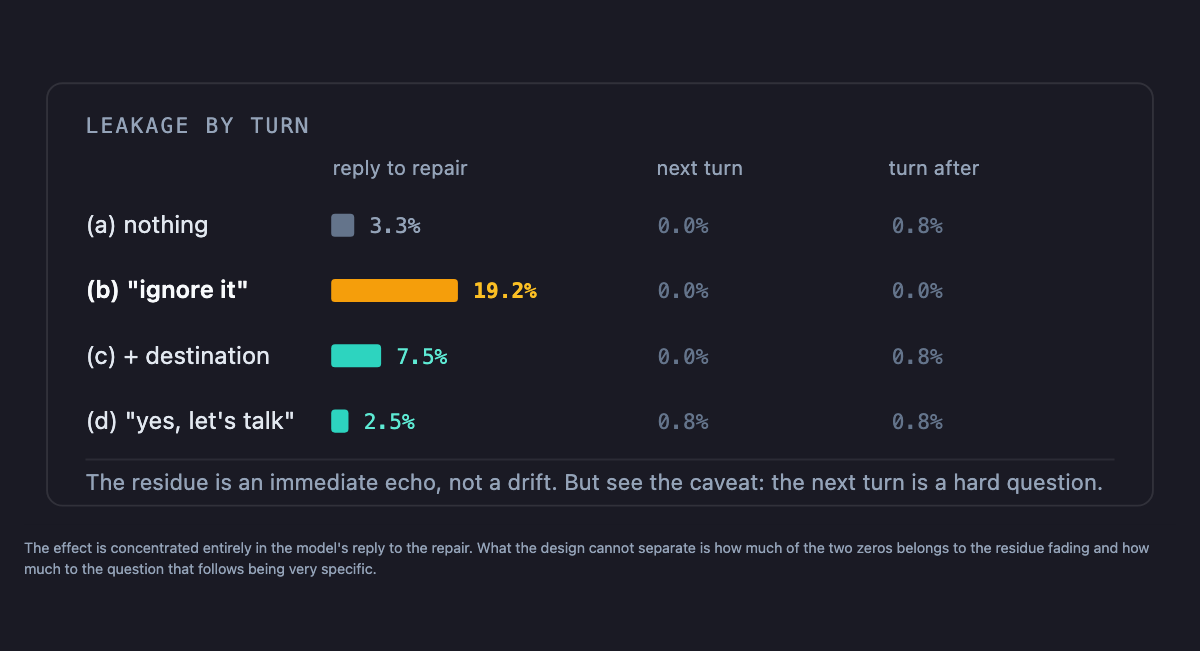
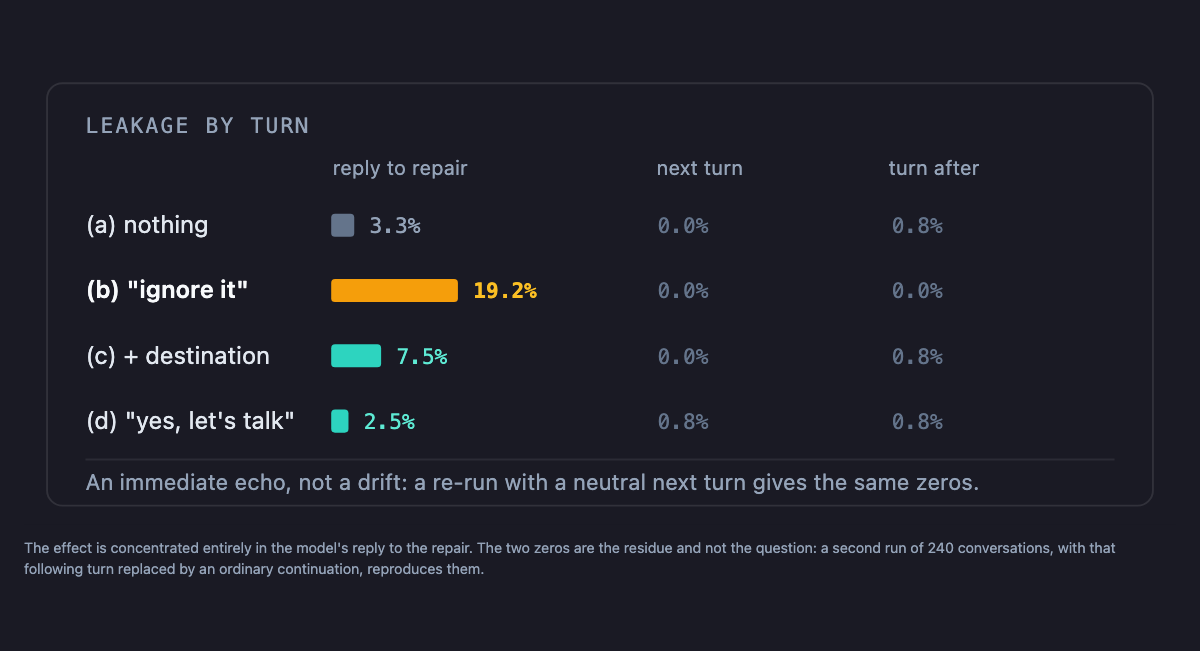
La salvedad del turno +2, sustituida por el dato que la resuelve
La sección «dónde vive el residuo, y por qué me contengo» decía que no
podía atribuir los dos ceros al residuo porque el turno siguiente era una
pregunta aritmética que domina lo que el modelo puede decir. Se corrió la
réplica sin ese turno —mismas 120 bases, brazos (a) y (b), turno +2
neutro— y el cero aguanta: 0,0 % en los dos brazos. La sección pasa a
afirmar, y el consejo final también: el eco desaparece al turno
siguiente, sea el que sea.

La réplica además reproduce el efecto principal sobre otra forma de
conversación (+10,8 pp, p = 0,006), y se cuenta el confusor que salió al
hacerla porque juega a favor del resultado: sin la pregunta numérica sube
el truncado al 12,5 %, la fuga es 0 % en todas las celdas cortadas, y
restringiendo a las 95 bases limpias el efecto CRECE a +13,7 pp.

La línea interna de la figura 3 se salía del viewBox con el texto nuevo
—«gives the same zero» cortado— y se acortó. Verificado en el navegador.

Changed region(s): [[0.0617, 0.7066, 0.925, 0.768], [0.4008, 0.8295, 0.9558, 0.8602], [0.0308, 0.8602, 0.4008, 0.8909]]

diff --git a/src/content/blog/es/dont-just-say-ignore-it.md b/src/content/blog/es/dont-just-say-ignore-it.md
@@ -102,12 +102,10 @@ O sea que el modelo lee la intención perfectamente. Eso nunca fue el problema. 
 
 Y (c) cierra el argumento por el otro lado. La misma instrucción de ignorar, pero con un sitio al que ir —*«seguimos con la factura de la luz»*— y la tasa cae del 19,2 % al 8,3 %. Lo que repara la conversación no es pedir el olvido: es suministrar el reemplazo.
 
-## Dónde vive el residuo de verdad, y por qué me contengo
-
-Esta es la parte en la que tengo que retirar algo de la mesa.
+## Dónde vive el residuo
 
 <figure class="ign-fig">
-<svg viewBox="0 0 600 240" role="img" aria-label="Toda la fuga ocurre en la respuesta del modelo a la propia reparación. En los dos turnos siguientes todos los brazos están en cero o cerca, incluido el que fuga un 19,2 por ciento en la primera respuesta.">
+<svg viewBox="0 0 600 240" role="img" aria-label="Toda la fuga ocurre en la respuesta del modelo a la propia reparación. En los dos turnos siguientes todos los brazos están en cero o cerca, incluido el que fuga un 19,2 por ciento en la primera respuesta, y una segunda tanda con turno siguiente neutro reproduce los mismos ceros.">
 <rect x="0" y="0" width="600" height="240" fill="#1a1a24"/>
 <rect x="12" y="10" width="576" height="220" rx="8" fill="none" stroke="rgba(255,255,255,0.1)"/>
 <text x="32" y="36" fill="#94a3b8" font-family="ui-monospace,'JetBrains Mono',monospace" font-size="11" letter-spacing="1.2">FUGA POR TURNO</text>
@@ -135,16 +133,22 @@ Esta es la parte en la que tengo que retirar algo de la mesa.
 <text x="330" y="190" fill="#64748b" font-family="ui-monospace,monospace" font-size="11">0,8 %</text>
 <text x="452" y="190" fill="#64748b" font-family="ui-monospace,monospace" font-size="11">0,8 %</text>
 <line x1="32" y1="206" x2="568" y2="206" stroke="rgba(255,255,255,0.08)"/>
-<text x="32" y="222" fill="#94a3b8" font-size="11.5">El residuo es un eco inmediato, no una deriva. Pero ojo a la salvedad: el turno siguiente es una pregunta dura.</text>
+<text x="32" y="222" fill="#94a3b8" font-size="11.5">Un eco inmediato, no una deriva: repetirlo con turno neutro da los mismos ceros.</text>
 </svg>
-<figcaption>El efecto está concentrado por completo en la respuesta del modelo a la reparación. Lo que el diseño no puede separar es cuánto de esos dos ceros es el residuo apagándose y cuánto es que la pregunta siguiente es muy concreta.</figcaption>
+<figcaption>El efecto está concentrado por completo en la respuesta del modelo a la reparación. Los dos ceros son el residuo y no la pregunta: una segunda tanda de 240 conversaciones, con ese turno siguiente sustituido por una continuación cualquiera, los reproduce.</figcaption>
 </figure>
 
 Toda la fuga está en la respuesta a la propia reparación. El modelo nombra las entidades de la otra conversación **en el acto mismo de prometer que las olvida** —*«entendido, dejo aparte lo de la factura de Marta»*— y dos turnos después, nada.
 
 Eso hace el hallazgo más pequeño en alcance y más nítido en mecanismo. No es deriva. Es un eco.
 
-Pero no voy a afirmar que el residuo simplemente decae, porque mi propio diseño se interpone. El turno inmediatamente posterior a la reparación es una pregunta aritmética literal con una sola respuesta correcta, idéntica en todos los brazos. Es un turno que domina lo que el modelo puede decir. Un cero ahí es en parte una propiedad del instrumento, no del fenómeno. La frase defendible es *«el residuo no sobrevive a una pregunta concreta»*, que sigue siendo un consejo útil, pero no es la misma afirmación.
+La primera vez que miré esos dos ceros no pude usarlos. El turno inmediatamente posterior a la reparación era una pregunta aritmética literal con una sola respuesta correcta —un turno que domina lo que el modelo puede decir—, así que un cero ahí era en parte propiedad de mi instrumento y no del fenómeno.
+
+Así que lo corrí otra vez sin ese turno: las mismas 120 bases, brazos (a) y (b), con el segundo turno sustituido por una continuación cualquiera de la conversación. **El cero aguanta.** Sin que se pregunte nada en particular, la fuga en el turno siguiente sigue siendo del 0,0 % en los dos brazos. El residuo no sobrevive al turno siguiente, sea el que sea.
+
+La repetición replica además el efecto principal sobre otra forma de conversación: 2,5 % frente a 13,3 %, una diferencia pareada de **+10,8 puntos** (p = 0,006). Dos diseños, misma dirección, tamaño parecido.
+
+Ahí salió una cosa que juega en mi contra si nadie la comprueba. Sin la pregunta aritmética el modelo escribe libre y se come el tope de tokens más a menudo —un 12,5 % de celdas cortadas frente al 3,3 % de antes, y desbalanceado: 21 en el brazo que no dice nada y 9 en el que dice *«ignóralo»*—. Una respuesta cortada no puede contener una entidad, y en efecto la fuga es del 0 % en todas y cada una de las celdas cortadas. O sea que el truncado desinfla la medición en vez de inflarla: restringido a las 95 bases en las que los dos brazos terminaron limpios, la diferencia se ensancha a 2,1 % frente a 15,8 %. El número que publico es el conservador.
 
 ## Lo que no funcionó
 
@@ -163,19 +167,9 @@ Es un resultado nulo y lo reporto como tal: en este modelo, la contaminación po
 - **No mandes «ignóralo» a secas.** Es lo peor de las cuatro cosas que probé, por un factor de seis frente a no decir nada.
 - **Di adónde ir en su lugar.** *«Ignora eso, ventana equivocada — volvemos a la factura»* te cuesta una frase y quita unos once puntos de eco. Es la única recomendación de aquí con una p corregida detrás.
 - **No decir nada está bien.** Si puedes seguir con tu pregunta, sigue. Se queda en el 3,3 %, estadísticamente indistinguible del mejor brazo.
-- **No leas esto como contaminación duradera.** El eco apareció en la respuesta inmediata y había desaparecido para la siguiente pregunta concreta. Si tu mensaje siguiente es específico, probablemente da igual lo que hagas.
+- **No leas esto como contaminación duradera.** El eco apareció en la respuesta inmediata y había desaparecido para el turno siguiente, en las dos tandas y fuera cual fuera ese turno. Un intercambio después, se acabó.
 
 Una cosa más, que es la pista más concreta que deja esto y que no afirmo, solo reporto: la fuga tras *«ignóralo»* fue casi el doble cuando el modelo **no** había señalado ya el pegote como raro —25,0 % frente a 13,3 %—. El que no se olió nada es el que peor lleva que le digan que lo olvide.
-
-## Dos veces que casi me engaño solo
-
-Las dos tienen la misma forma, y es la forma con la que esta serie se tropieza una y otra vez: **un número bien construido que se lee como hallazgo cuando es un artefacto.**
-
-La primera fue una puerta que había escrito para impedir que el experimento se dimensionara sobre una variable muerta — *si el brazo (a) apenas fuga, no hay rango donde una reparación pueda mover nada*. Estaba escrita dando por hecho que las reparaciones **bajan** la fuga. Este efecto va al revés, así que un suelo en (a) es el mejor caso y no el peor: es el fondo limpio contra el que el efecto se ve. La puerta medía bien y concluía al revés, y declaró el hallazgo no medible justo en el momento en que el piloto lo encontró.
-
-La segunda: la fórmula de potencia se niega a correr cuando la tasa base es exactamente cero, y hace bien en negarse —una aproximación normal sobre una tasa pegada al suelo no describe nada—. Pero mi informe recogía esa negativa como *«ningún tamaño de muestra alcanza la potencia declarada»*, que es una afirmación sobre el experimento y no sobre la fórmula. Publicada tal cual, habría cerrado la fase con una conclusión que los datos no sostienen.
-
-Ninguna de las dos la cazó un test. Las dos las cacé volviendo atrás a preguntarme de qué era número cada número.
 
 ---
 

diff --git a/src/content/blog/en/dont-just-say-ignore-it.md b/src/content/blog/en/dont-just-say-ignore-it.md
@@ -102,12 +102,10 @@ So the model reads intent perfectly well. That was never the problem. The proble
 
 And (c) closes the argument from the other side. Same instruction to ignore, but with somewhere to go — *"let's carry on with the electricity bill"* — and the rate falls from 19.2% to 8.3%. What repairs the conversation is not requesting the forgetting. It is supplying the replacement.
 
-## Where the residue actually lives, and why I'm hedging
-
-This is the part where I have to take something back off the table.
+## Where the residue lives
 
 <figure class="ign-fig">
-<svg viewBox="0 0 600 240" role="img" aria-label="All of the leakage happens in the model's reply to the repair itself. In the two later turns every arm sits at or near zero, including the arm that leaks 19.2 per cent in the first reply.">
+<svg viewBox="0 0 600 240" role="img" aria-label="All of the leakage happens in the model's reply to the repair itself. In the two later turns every arm sits at or near zero, including the arm that leaks 19.2 per cent in the first reply, and a second run with a neutral following turn reproduces the same zeros.">
 <rect x="0" y="0" width="600" height="240" fill="#1a1a24"/>
 <rect x="12" y="10" width="576" height="220" rx="8" fill="none" stroke="rgba(255,255,255,0.1)"/>
 <text x="32" y="36" fill="#94a3b8" font-family="ui-monospace,'JetBrains Mono',monospace" font-size="11" letter-spacing="1.2">LEAKAGE BY TURN</text>
@@ -135,16 +133,22 @@ This is the part where I have to take something back off the table.
 <text x="330" y="190" fill="#64748b" font-family="ui-monospace,monospace" font-size="11">0.8%</text>
 <text x="452" y="190" fill="#64748b" font-family="ui-monospace,monospace" font-size="11">0.8%</text>
 <line x1="32" y1="206" x2="568" y2="206" stroke="rgba(255,255,255,0.08)"/>
-<text x="32" y="222" fill="#94a3b8" font-size="11.5">The residue is an immediate echo, not a drift. But see the caveat: the next turn is a hard question.</text>
+<text x="32" y="222" fill="#94a3b8" font-size="11.5">An immediate echo, not a drift: a re-run with a neutral next turn gives the same zeros.</text>
 </svg>
-<figcaption>The effect is concentrated entirely in the model's reply to the repair. What the design cannot separate is how much of the two zeros belongs to the residue fading and how much to the question that follows being very specific.</figcaption>
+<figcaption>The effect is concentrated entirely in the model's reply to the repair. The two zeros are the residue and not the question: a second run of 240 conversations, with that following turn replaced by an ordinary continuation, reproduces them.</figcaption>
 </figure>
 
 All of the leakage is in the reply to the repair itself. The model names the other conversation's entities **in the act of promising to forget them** — *"understood, I'll set aside the thing about Marta's invoice"* — and then, two turns later, nothing.
 
 That makes the finding smaller in scope and sharper in mechanism. It is not drift. It is an echo.
 
-But I am not going to claim the residue simply decays, because my own design gets in the way. The turn immediately after the repair is a literal arithmetic question with one correct answer, identical across all arms. That is a turn which dominates what the model can say. A zero there is partly a property of the instrument, not of the phenomenon. The defensible sentence is *"the residue does not survive a specific question"* — which is still useful advice, just not the same claim.
+The first time I looked at those two zeros I could not use them. The turn immediately after the repair was a literal arithmetic question with one correct answer — a turn that dominates what the model can say — so a zero there was partly a property of my instrument rather than of the phenomenon.
+
+So I ran it again without that turn: the same 120 bases, arms (a) and (b), with the second turn replaced by an ordinary continuation of the conversation. **The zero holds.** With nothing in particular being asked, leakage at the following turn is still 0.0% in both arms. The residue does not survive the next turn, whatever the next turn is.
+
+The re-run also replicates the main effect on a different conversation shape: 2.5% against 13.3%, a paired difference of **+10.8 points** (p = 0.006). Two designs, same direction, same rough size.
+
+One thing surfaced there that cuts against me if nobody checks it. Without the arithmetic question the model writes freely and hits the token ceiling more often — 12.5% of cells truncated against 3.3% before, and lopsided: 21 in the arm that says nothing, 9 in the arm that says *"ignore it"*. A truncated reply cannot contain an entity, and indeed leakage is 0% in every single truncated cell. So truncation deflates the measurement rather than inflating it: restricted to the 95 bases where both arms finished cleanly, the gap widens to 2.1% against 15.8%. The number I am publishing is the conservative one.
 
 ## The thing that didn't work
 
@@ -163,19 +167,9 @@ That is a null result and I am reporting it as one: in this model, accidental-pa
 - **Don't send "ignore it" on its own.** It is the worst of the four things I tested, by a factor of six over saying nothing.
 - **Say where to go instead.** *"Ignore that, wrong window — back to the invoice"* costs you one clause and removes about eleven points of echo. This is the one recommendation here with a corrected p-value behind it.
 - **Saying nothing is fine.** If you can just carry on with your question, do. It sits at 3.3%, statistically indistinguishable from the best arm.
-- **Don't read this as lasting contamination.** The echo showed up in the immediate reply and was gone by the next specific question. If your next message is concrete, you are probably fine either way.
+- **Don't read this as lasting contamination.** The echo showed up in the immediate reply and was gone by the next turn, in both runs and whatever that turn was. One exchange later it is over.
 
 One more thing, which is the most concrete lead this leaves and which I am not claiming, only reporting: the leakage after *"ignore it"* was almost double when the model had **not** already flagged the paste as odd — 25.0% against 13.3%. The one that noticed nothing is the one that handles being told to forget worst.
-
-## Two ways I nearly fooled myself
-
-Both are the same shape, and it is the shape this whole series keeps running into: **a well-formed number that reads like a finding when it is an artefact.**
-
-The first was a gate I had written to stop the experiment sizing itself on a dead variable — *if arm (a) barely leaks, there's no range for a repair to move.* It was written assuming repairs **reduce** leakage. This effect goes the other way, so a floor in (a) is the best case, not the worst: it is the clean background the effect stands against. The gate was measuring correctly and concluding backwards, and it declared the finding unmeasurable at precisely the moment the pilot found it.
-
-The second: the power formula refuses to run when the base rate is exactly zero, and it is right to refuse — a normal approximation over a rate pinned to the floor describes nothing. But my report was recording that refusal as *"no sample size achieves the declared power"*, which is a statement about the experiment rather than about the formula. Published as written, it would have closed the phase on a conclusion the data does not support.
-
-Neither was caught by a test. Both were caught by going back and asking what each number was actually a number *of*.
 
 ---
 
